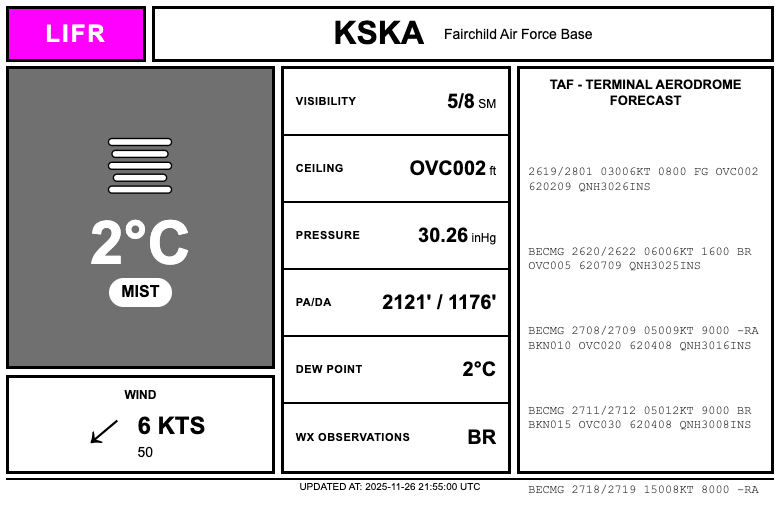
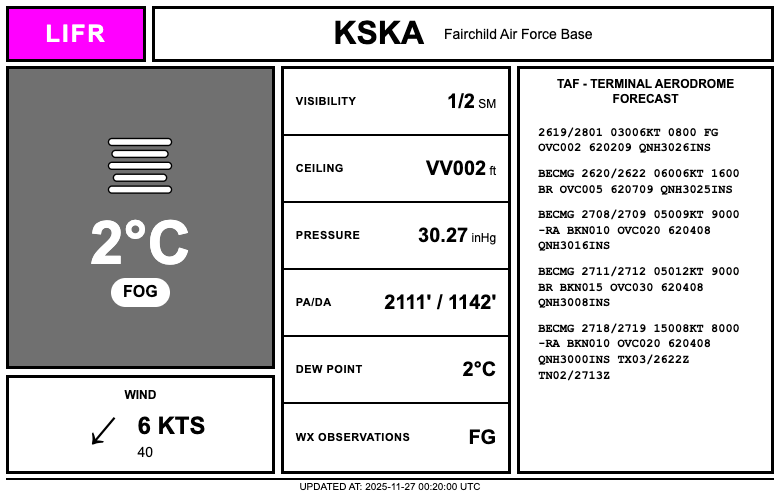
Preview Window Update

diff --git a/preview.py b/preview.py
@@ -291,7 +291,7 @@ def take_screenshot():
         options.add_argument("--force-device-scale-factor=1")
         
         driver = webdriver.Chrome(options=options)
-        driver.set_window_size(780, 500)
+        driver.set_window_size(780, 635)
         driver.get(f"file://{HTML_OUT.absolute()}")
         driver.save_screenshot(str(PNG_OUT))
         driver.quit()
